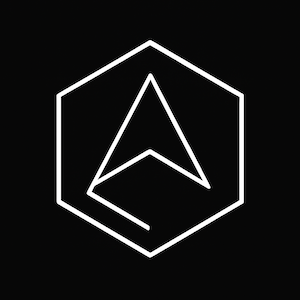
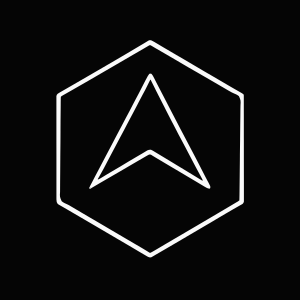
chore: switch to a config endpoint (#2)
* chore: update .gitignore

* chore: update package avatar

* docs: update development guide

* chore: switch to a config endpoint

* chore: update the package

diff --git a/docs/README.md b/docs/README.md
@@ -27,7 +27,7 @@
 
 ## Server
 
- 1. Run an Ubuntu VM on Hetzner - `8vCPU/16GB RAM` (`cx42/cpx41`)
+ 1. Run an Ubuntu VM on Hetzner - `8vCPU/16GB RAM` (`cx43/cpx42`)
  2. Create firewall rules based on the [Cloud Providers / AWS](https://docs.dappnode.io/docs/user/dappnode-cloud/providers/aws/set-up-instance/) guide
 
     | Protocol | Port         | Service       | Source      | Comment                              |
@@ -121,9 +121,11 @@
 
  4. Copy package files to Dappnode server
     ```shell
-    local_dir="DAppNodePackage-archivist"
+    local_dir="."
     remote_dir="/opt/DAppNodePackage-archivist"
     host="root@<server-ip>"
+
+    cd DAppNodePackage-archivist
 
     rsync -avze ssh --rsync-path='sudo rsync --mkpath' "${local_dir}/" "${host}:${remote_dir}/" --delete
     ```
@@ -136,6 +138,7 @@
     ```shell
     # Code directory - multi-arch builds failed with --dir argument
     cd /opt/DAppNodePackage-archivist
+    chown -R `whoami`:`whoami` .
 
     # Use Ipfs node IP
     npx @dappnode/dappnodesdk build --variants archivist --provider=http://172.33.0.3:5001

diff --git a/README.md b/README.md
@@ -32,7 +32,7 @@
 
  | Package   | Link                                                                                                                                                   |
  | --------- | ------------------------------------------------------------------------------------------------------------------------------------------------------ |
- | Archivist | [`/ipfs/QmVSTCz63GDG3M2FvdCimNmrrNLrrtG16X1m86mxgdDaQR`](http://my.dappnode/installer/public/%2Fipfs%2FQmVSTCz63GDG3M2FvdCimNmrrNLrrtG16X1m86mxgdDaQR) |
+ | Archivist | [`/ipfs/QmUQSPR5r5hN1nf8uNjR6Q6hGJguW9AkXWvoAMkMhTkvTr`](http://my.dappnode/installer/public/%2Fipfs%2FQmUQSPR5r5hN1nf8uNjR6Q6hGJguW9AkXWvoAMkMhTkvTr) |
 
 
 ## Todo
